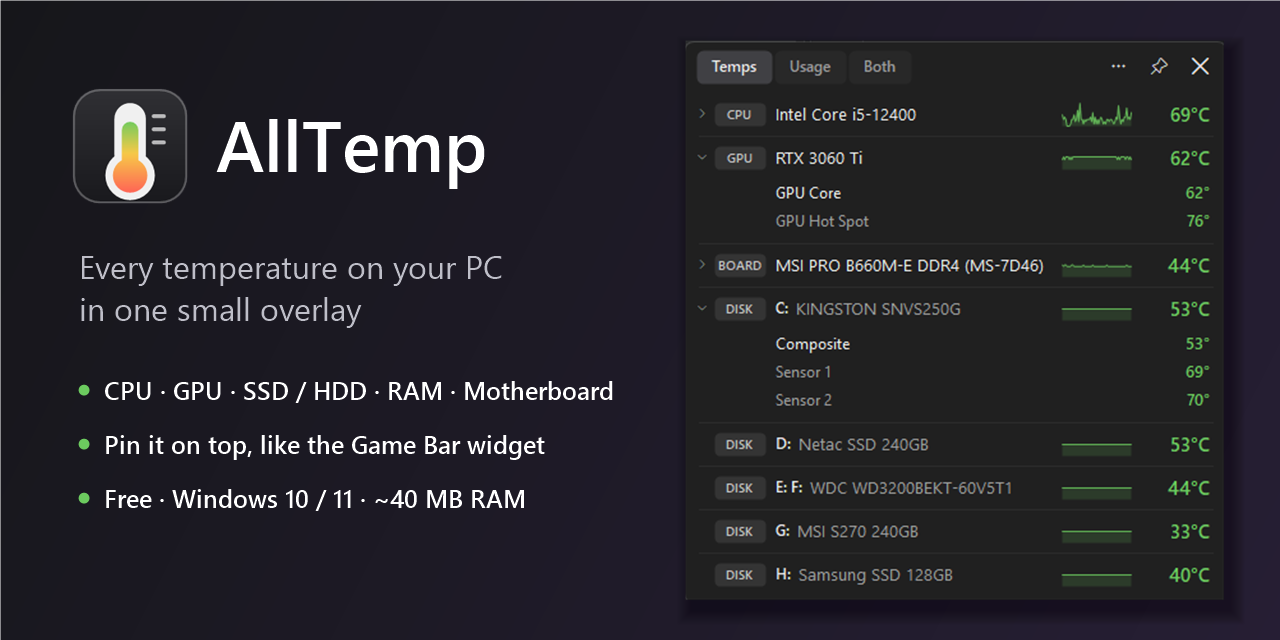
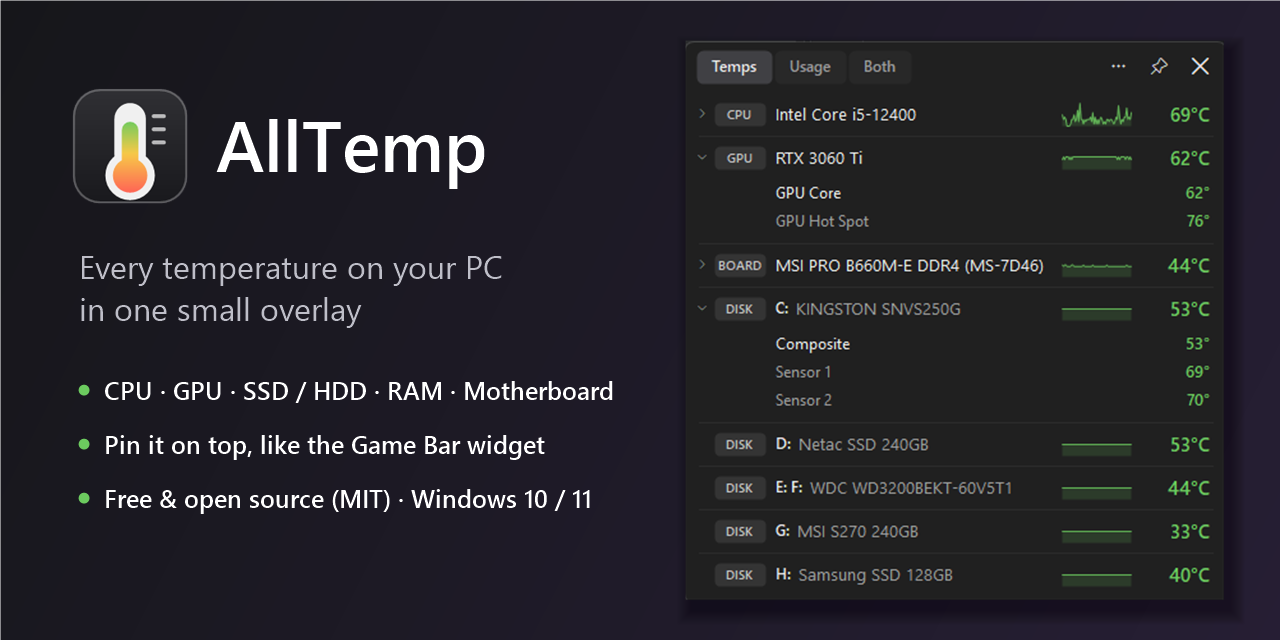
Say 'free and open source' everywhere
README title, intro and features, website title/meta/hero/feature card
and structured data (license, isAccessibleForFree), social preview image
and the winget description now all say free and open source (MIT).

Changed region(s): [[0.125, 0.75, 0.4688, 0.8125]]

diff --git a/docs/index.html b/docs/index.html
@@ -3,9 +3,9 @@
 <head>
 <meta charset="utf-8">
 <meta name="viewport" content="width=device-width, initial-scale=1.0">
-<title>AllTemp: Free CPU, GPU &amp; SSD Temperature Monitor for Windows 11 / 10</title>
-<meta name="description" content="AllTemp shows every temperature on your Windows PC (CPU, GPU, NVMe/SSD/HDD, RAM, motherboard) in one small always-on-top overlay. Free, lightweight, with CPU/GPU/RAM usage and a live tray icon.">
-<meta name="keywords" content="CPU temperature monitor, GPU temperature, SSD temperature, NVMe temperature, hard drive temperature, Windows 11 temperature overlay, always on top, hardware monitor, PC temperature">
+<title>AllTemp: Free, Open-Source CPU, GPU &amp; SSD Temperature Monitor for Windows 11 / 10</title>
+<meta name="description" content="AllTemp shows every temperature on your Windows PC (CPU, GPU, NVMe/SSD/HDD, RAM, motherboard) in one small always-on-top overlay. Free and open source (MIT), lightweight, with CPU/GPU/RAM usage and a live tray icon.">
+<meta name="keywords" content="free open source CPU temperature monitor, CPU temperature monitor, GPU temperature, SSD temperature, NVMe temperature, hard drive temperature, Windows 11 temperature overlay, always on top, hardware monitor, PC temperature">
 <link rel="canonical" href="https://imtiaj-sajin.github.io/all-temp/">
 <meta name="color-scheme" content="dark light">
 <meta name="theme-color" content="#16161a">
@@ -15,7 +15,7 @@
 <meta property="og:type" content="website">
 <meta property="og:site_name" content="AllTemp">
 <meta property="og:title" content="AllTemp: every temperature on your PC in one overlay">
-<meta property="og:description" content="Free Windows app that shows CPU, GPU, SSD/HDD, RAM and motherboard temperatures in one small window you can pin on top.">
+<meta property="og:description" content="Free, open-source Windows app that shows CPU, GPU, SSD/HDD, RAM and motherboard temperatures in one small window you can pin on top.">
 <meta property="og:url" content="https://imtiaj-sajin.github.io/all-temp/">
 <meta property="og:image" content="https://imtiaj-sajin.github.io/all-temp/img/social-preview.png">
 <meta property="og:image:width" content="1280">
@@ -23,7 +23,7 @@
 <meta property="og:image:alt" content="AllTemp overlay showing CPU, GPU, motherboard and disk temperatures">
 <meta name="twitter:card" content="summary_large_image">
 <meta name="twitter:title" content="AllTemp: every temperature on your PC in one overlay">
-<meta name="twitter:description" content="CPU, GPU, SSD/HDD, RAM and motherboard temperatures in one small always-on-top window. Free for Windows 10/11.">
+<meta name="twitter:description" content="CPU, GPU, SSD/HDD, RAM and motherboard temperatures in one small always-on-top window. Free and open source, for Windows 10/11.">
 <meta name="twitter:image" content="https://imtiaj-sajin.github.io/all-temp/img/social-preview.png">
 
 <script type="application/ld+json">
@@ -41,6 +41,8 @@
   "image": "https://imtiaj-sajin.github.io/all-temp/img/social-preview.png",
   "screenshot": "https://imtiaj-sajin.github.io/all-temp/img/temps.png",
   "author": { "@type": "Person", "name": "Imtiaj Sajin", "url": "https://github.com/Imtiaj-Sajin" },
+  "license": "https://opensource.org/licenses/MIT",
+  "isAccessibleForFree": true,
   "offers": { "@type": "Offer", "price": "0", "priceCurrency": "USD" }
 }
 </script>
@@ -137,7 +139,7 @@
     <div class="hero">
       <div>
         <h1>Every temperature on your PC, <span>in one small overlay</span></h1>
-        <p class="lead">CPU, GPU, NVMe / SSD / HDD, RAM and motherboard temperatures, plus CPU, GPU and RAM usage, in a lightweight window you can pin on top of games and apps. Free for Windows 11 and 10.</p>
+        <p class="lead">CPU, GPU, NVMe / SSD / HDD, RAM and motherboard temperatures, plus CPU, GPU and RAM usage, in a lightweight window you can pin on top of games and apps. Free and open source, for Windows 11 and 10.</p>
         <div class="cta">
           <a class="btn primary" href="https://github.com/Imtiaj-Sajin/all-temp/releases/latest/download/AllTemp-Setup.exe">
             <svg width="20" height="20" viewBox="0 0 24 24" aria-hidden="true"><path fill="currentColor" d="M12 3a1 1 0 0 1 1 1v9.59l3.3-3.3a1 1 0 1 1 1.4 1.42l-5 5a1 1 0 0 1-1.4 0l-5-5a1 1 0 0 1 1.4-1.42l3.3 3.3V4a1 1 0 0 1 1-1zM5 19h14a1 1 0 1 1 0 2H5a1 1 0 1 1 0-2z"/></svg>
@@ -145,7 +147,7 @@
           </a>
           <a class="btn ghost" href="https://github.com/Imtiaj-Sajin/all-temp/releases/latest/download/AllTemp-portable.exe">Portable .exe</a>
         </div>
-        <p class="meta">Free · 6.6 MB installer · Windows 10 / 11 (64-bit) · ~40 MB RAM</p>
+        <p class="meta">Free &amp; open source (MIT) · 6.6 MB installer · Windows 10 / 11 (64-bit) · ~40 MB RAM</p>
       </div>
       <img class="shot" src="img/temps.png" width="422" height="438" fetchpriority="high"
            alt="AllTemp window showing CPU, GPU, motherboard and five SSD/HDD temperatures, colour-coded">
@@ -159,6 +161,7 @@
         <div class="card"><h3>📊 Usage too</h3><p>Switch between Temps, Usage and Both: CPU load and clock, GPU load and VRAM, RAM used, disk activity, each with a 60-second graph.</p></div>
         <div class="card"><h3>🟢 Clear warnings</h3><p>Green, amber and red limits tuned per device type. NVMe drives use their own reported warning temperature.</p></div>
         <div class="card"><h3>🔔 Tray icon</h3><p>Your CPU temperature as a live number in the system tray, with every device in the tooltip.</p></div>
+        <div class="card"><h3>💚 Free &amp; open source</h3><p>MIT licensed, with no ads, no account and no tracking. Every line of code is on <a href="https://github.com/Imtiaj-Sajin/all-temp">GitHub</a>.</p></div>
         <div class="card"><h3>🪶 Lightweight</h3><p>About 40 MB of RAM and 0.2% CPU at a one-second refresh. Starts with Windows if you want it to.</p></div>
       </div>
     </section>
@@ -193,7 +196,7 @@
   </main>
 
   <footer>
-    AllTemp by <a href="https://github.com/Imtiaj-Sajin">Imtiaj Sajin</a> ·
+    AllTemp, free and open source (MIT), by <a href="https://github.com/Imtiaj-Sajin">Imtiaj Sajin</a> ·
     <a href="https://github.com/Imtiaj-Sajin/all-temp">Source on GitHub</a> ·
     <a href="https://github.com/Imtiaj-Sajin/all-temp/releases">All releases</a> ·
     Sensors via <a href="https://github.com/LibreHardwareMonitor/LibreHardwareMonitor">LibreHardwareMonitor</a>

diff --git a/README.md b/README.md
@@ -2,11 +2,11 @@
   <img src="docs/img/icon.png" width="96" height="96" alt="AllTemp icon">
 </p>
 
-<h1 align="center">AllTemp: CPU, GPU, SSD &amp; RAM temperature monitor for Windows</h1>
+<h1 align="center">AllTemp: free, open-source CPU, GPU, SSD &amp; RAM temperature monitor for Windows</h1>
 
 <p align="center">
   <b>Every temperature on your PC in one small, always-on-top overlay.</b><br>
-  Free and lightweight for Windows 11 and Windows 10. CPU, GPU, NVMe/SSD/HDD, RAM and motherboard temperatures, plus CPU/GPU/RAM usage, in one window you can pin over games and apps.
+  Free and open source (MIT), lightweight, for Windows 11 and Windows 10. CPU, GPU, NVMe/SSD/HDD, RAM and motherboard temperatures, plus CPU/GPU/RAM usage, in one window you can pin over games and apps.
 </p>
 
 <p align="center">
@@ -35,6 +35,7 @@ Windows has no built-in way to see your CPU temperature, SSD temperature or GPU 
 - 📊 **Usage too:** switch between **Temps | Usage | Both**: CPU load and clock speed, GPU load and VRAM, RAM used/total, disk activity and transfer rate, each with a 60-second graph.
 - 🟢🟡🔴 **Colour-coded warnings** per device type. NVMe drives use their own reported warning temperature.
 - 🔔 **Live CPU temperature in the system tray**; the tooltip lists every device.
+- 💚 **Free and open source** (MIT license): no ads, no account, no tracking. All the code is in this repo.
 - 🪶 **Lightweight:** ~40 MB RAM and ~0.2 % CPU at a 1-second refresh. A 6.6 MB installer.
 - 🌗 °C / °F, refresh rate, start with Windows, compact mode. Right-click for everything.
 
@@ -84,7 +85,7 @@ Windows only lets admin programs read disk SMART data and low-level hardware sen
 <details>
 <summary><b>How is this different from HWMonitor, HWiNFO or Core Temp?</b></summary>
 
-Those are excellent but show everything in a large table, and Core Temp shows the CPU only. AllTemp is a small overlay focused on one question, "how hot is everything right now?", with every device on one screen, pin-on-top and a live tray icon. It uses the same open-source sensor library as LibreHardwareMonitor.
+Those are excellent but show everything in a large table, and Core Temp shows the CPU only. AllTemp is free and open source, and it is a small overlay focused on one question, "how hot is everything right now?", with every device on one screen, pin-on-top and a live tray icon. It uses the same open-source sensor library as LibreHardwareMonitor.
 </details>
 
 <details>
@@ -134,4 +135,4 @@ AllTemp is [MIT licensed](LICENSE). Bundled third-party components keep their ow
 
 ---
 
-<sub>Keywords: CPU temperature monitor, GPU temperature, SSD temperature, NVMe temperature, hard drive temperature, RAM temperature, motherboard temperature, Windows 11 temperature overlay, always on top, system tray CPU temp, hardware monitor, PC temperature checker.</sub>
+<sub>Keywords: free open-source CPU temperature monitor, GPU temperature, SSD temperature, NVMe temperature, hard drive temperature, RAM temperature, motherboard temperature, Windows 11 temperature overlay, always on top, system tray CPU temp, hardware monitor, PC temperature checker.</sub>
